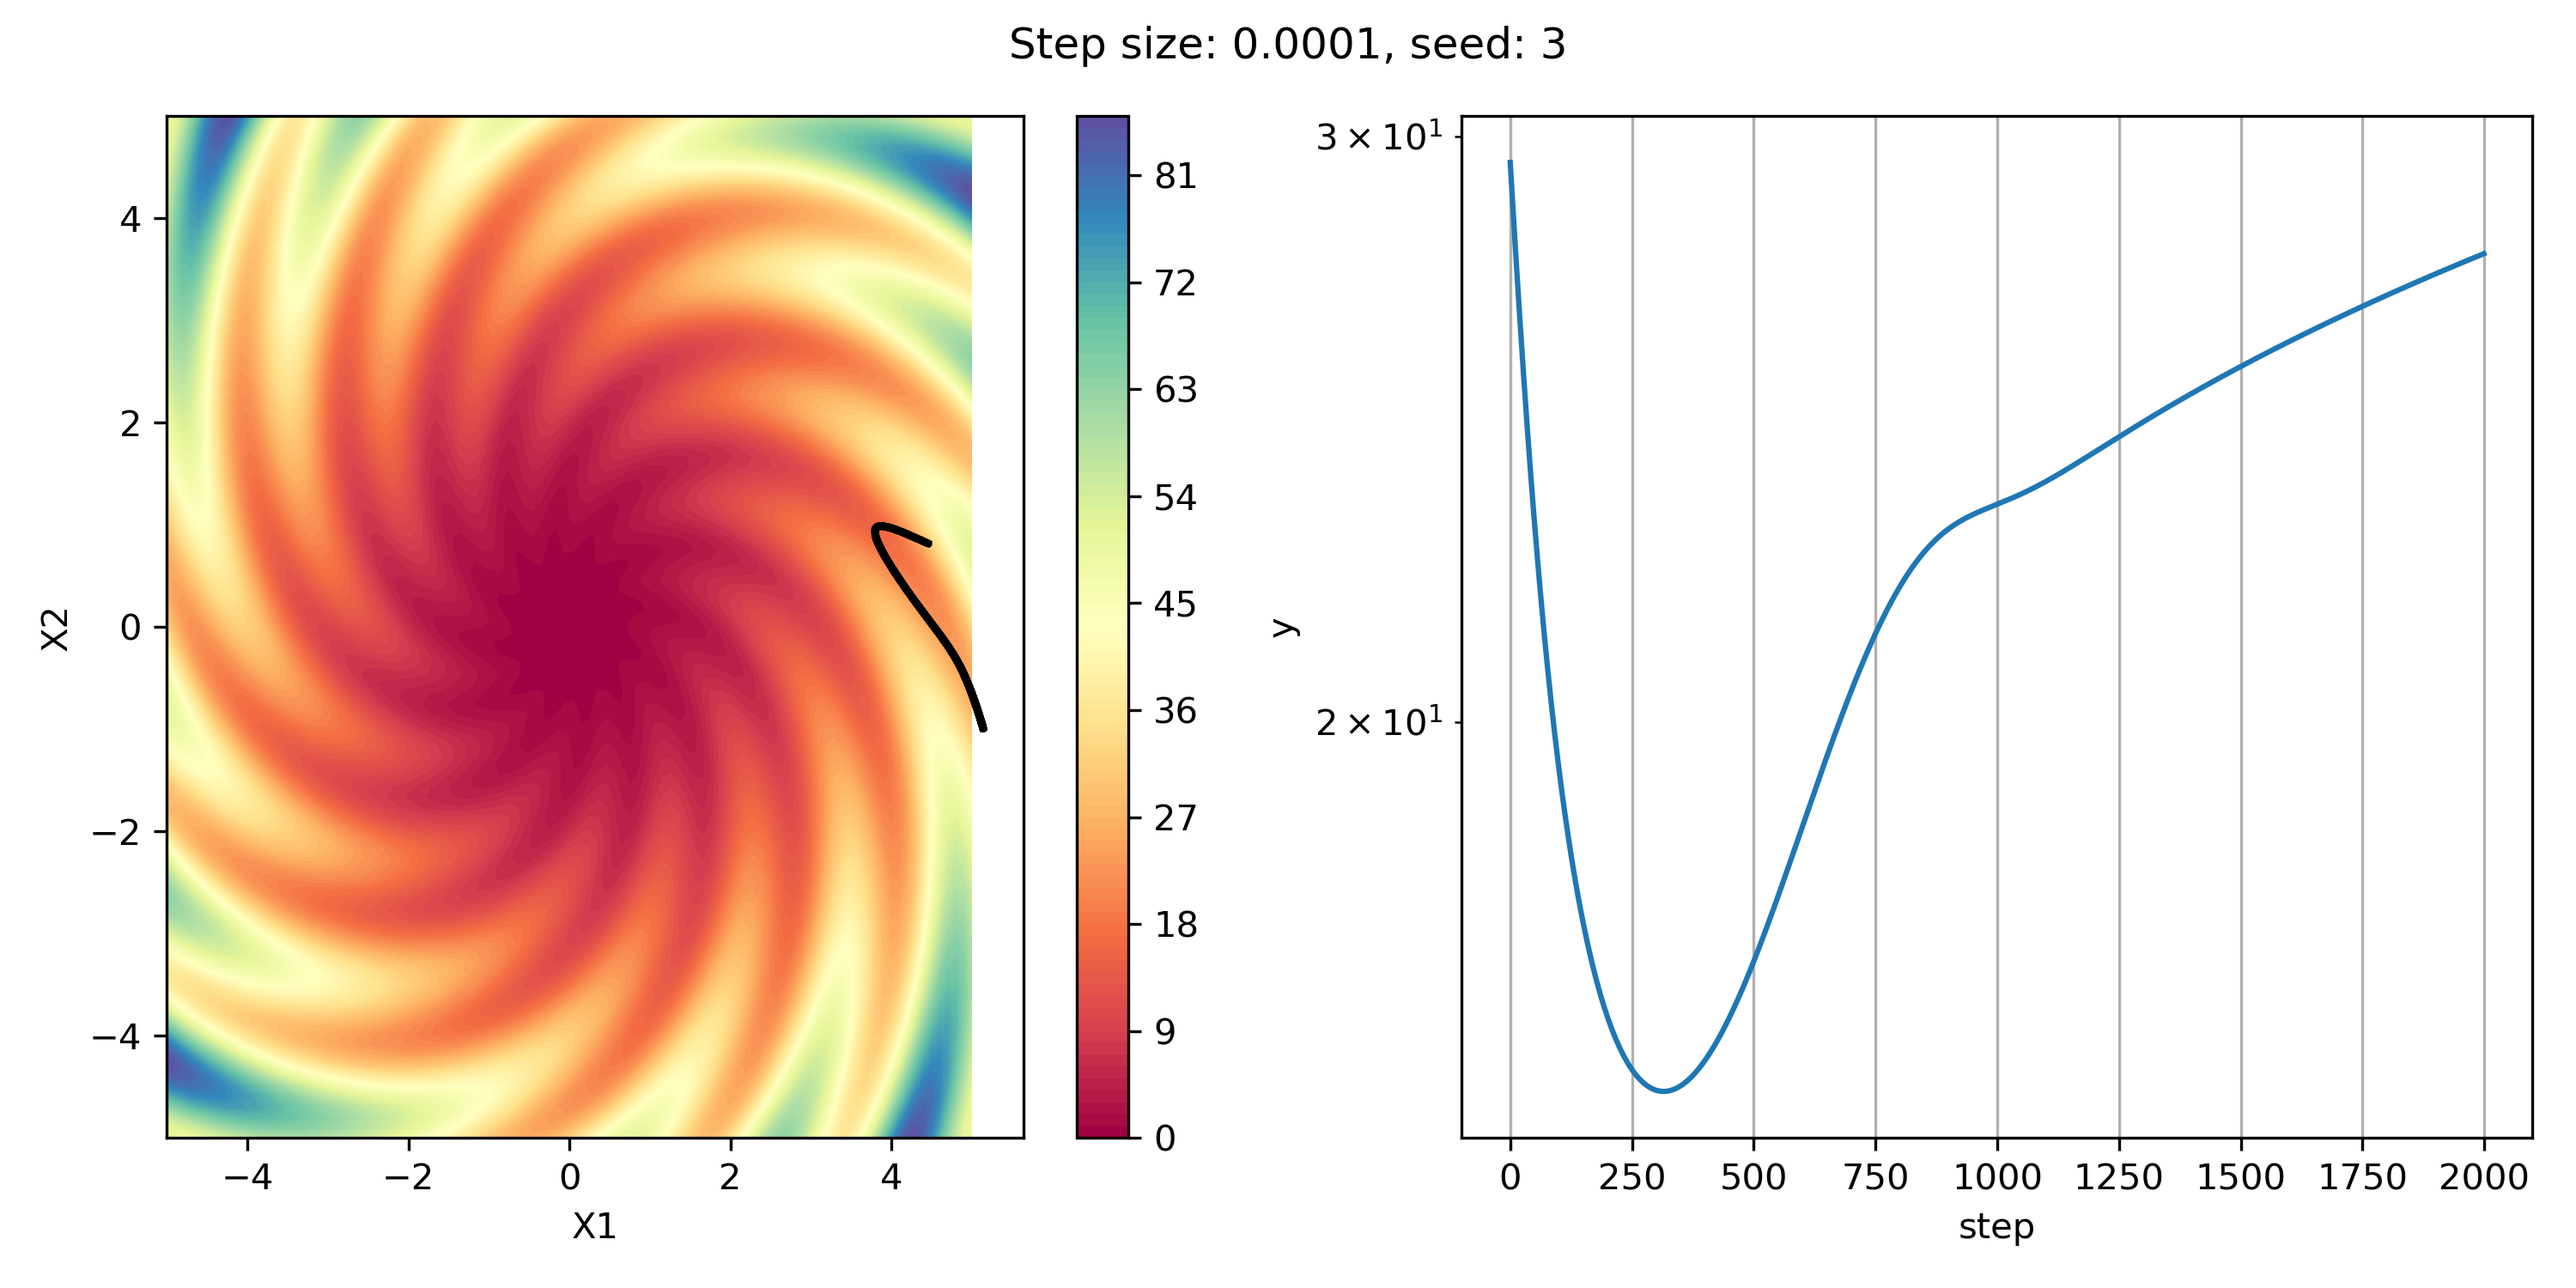
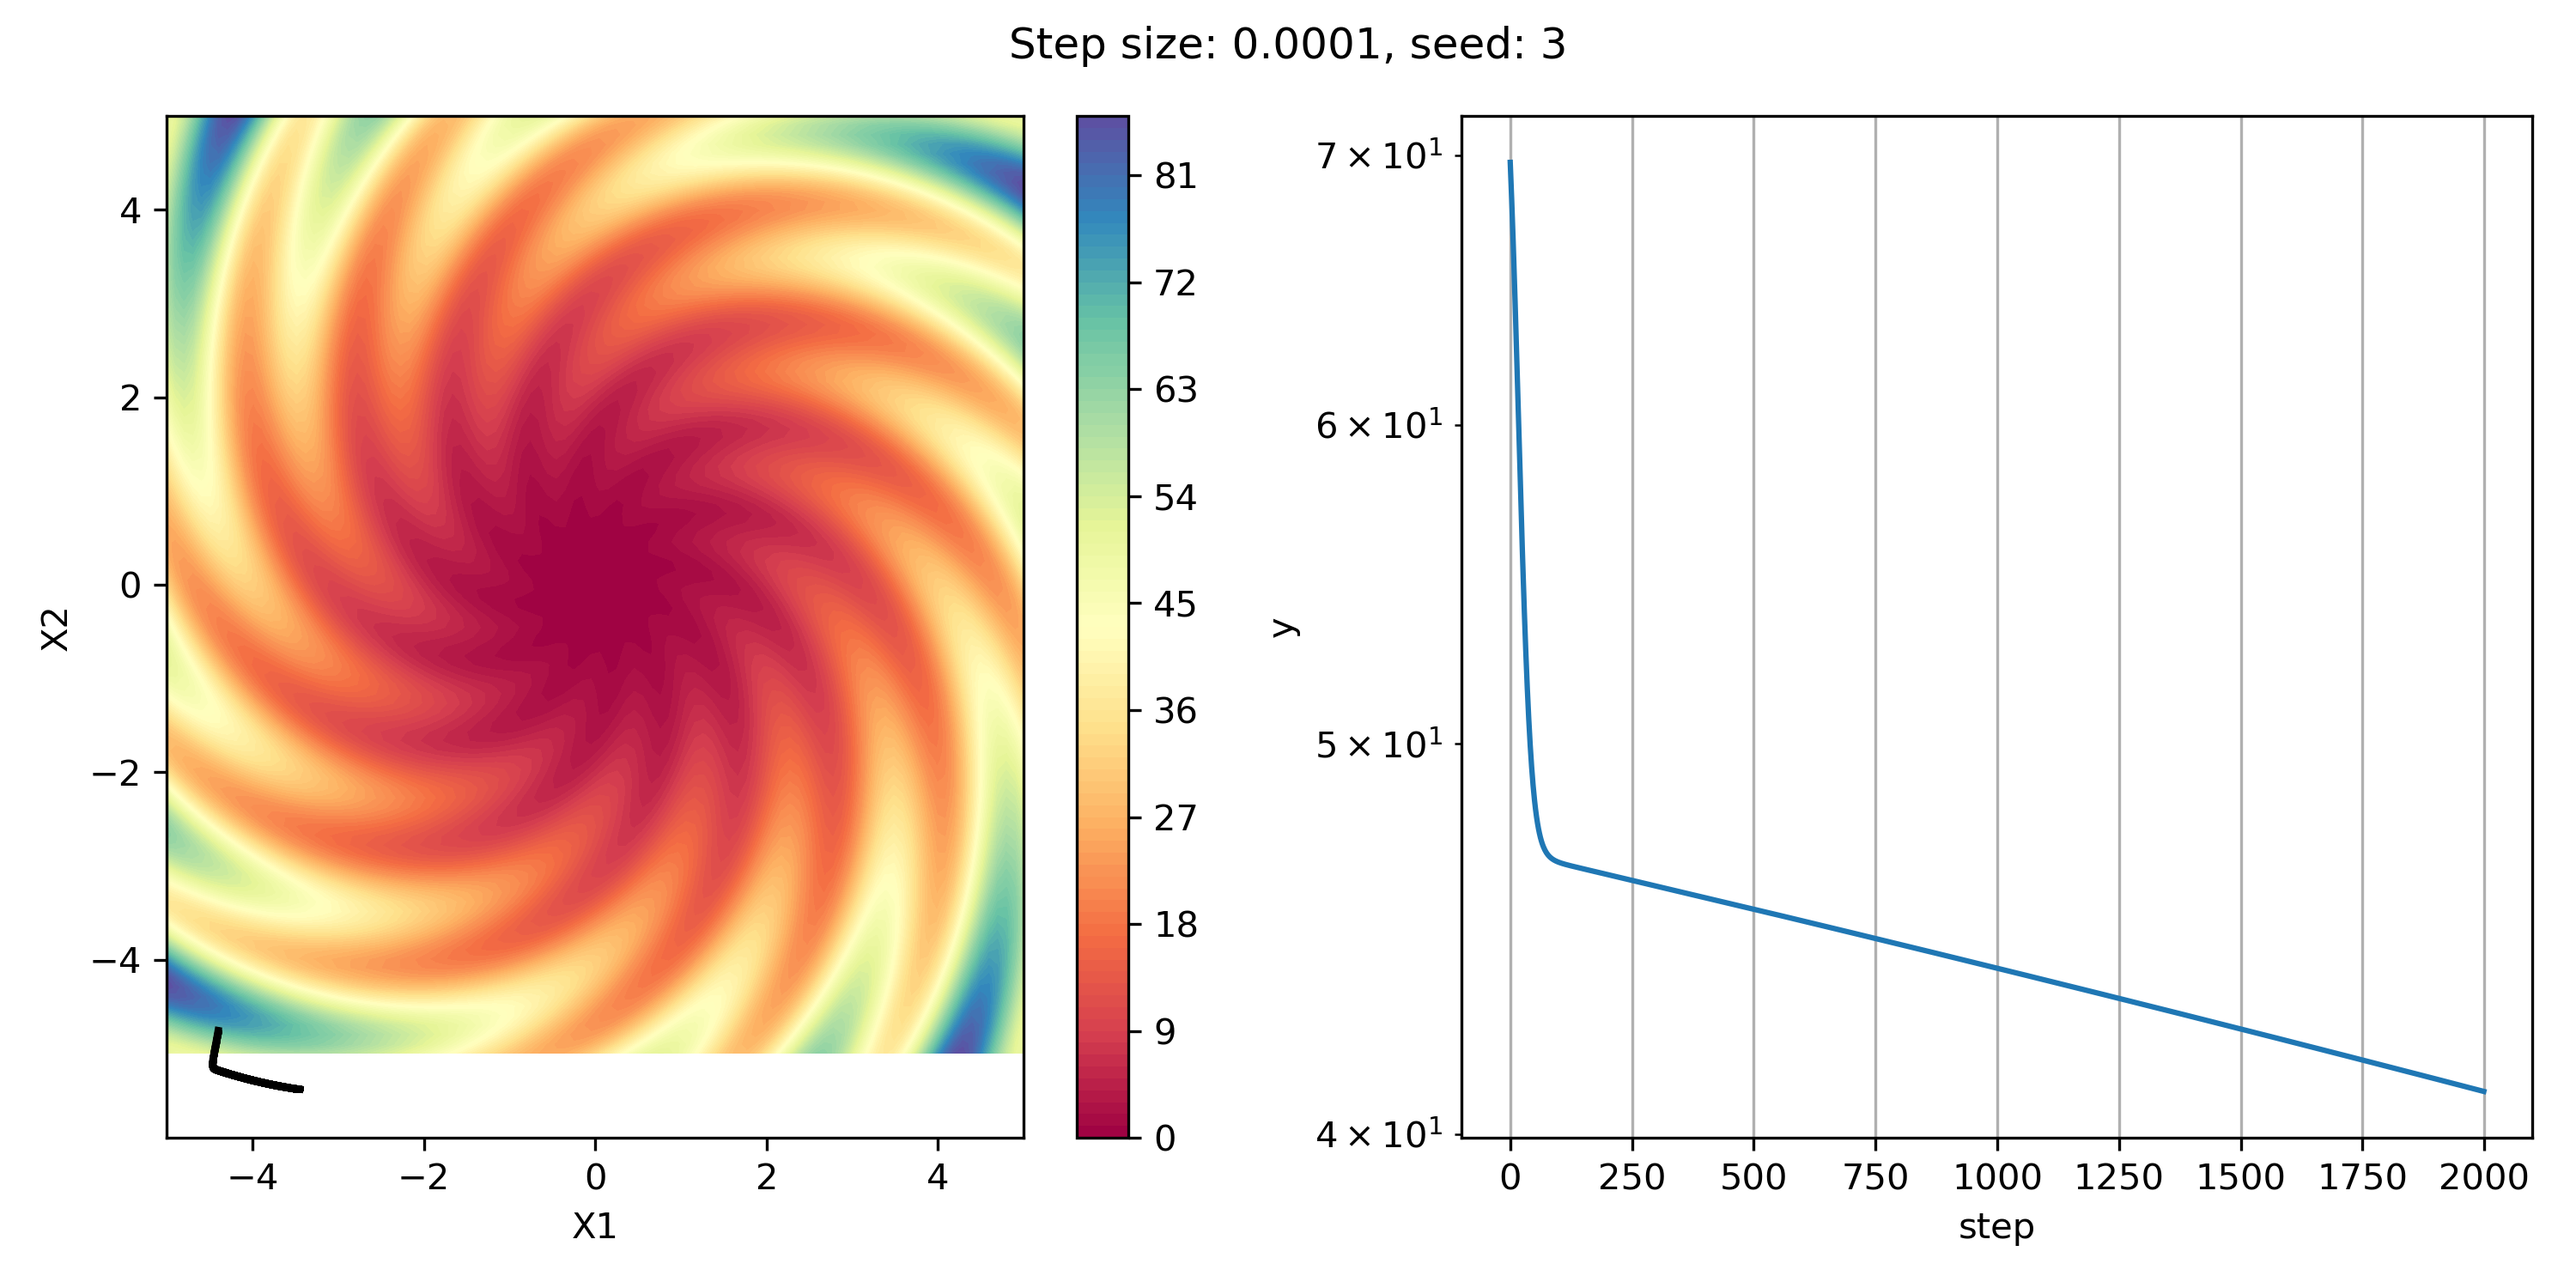
fix g1 gradients

diff --git a/homework/hw1/q1.py b/homework/hw1/q1.py
@@ -28,7 +28,7 @@ def grad_theta_x1(x1, x2):
 
 def grad_theta_x2(x1, x2):
     # Calculate the gradient of theta w.r.t. x2
-    return -x1 / (r(x1, x2) ** 2)
+    return x1 / (r(x1, x2) ** 2)
 
 def grad_r_x1(x1, x2):
     # Calculate the gradient of r w.r.t. x1
